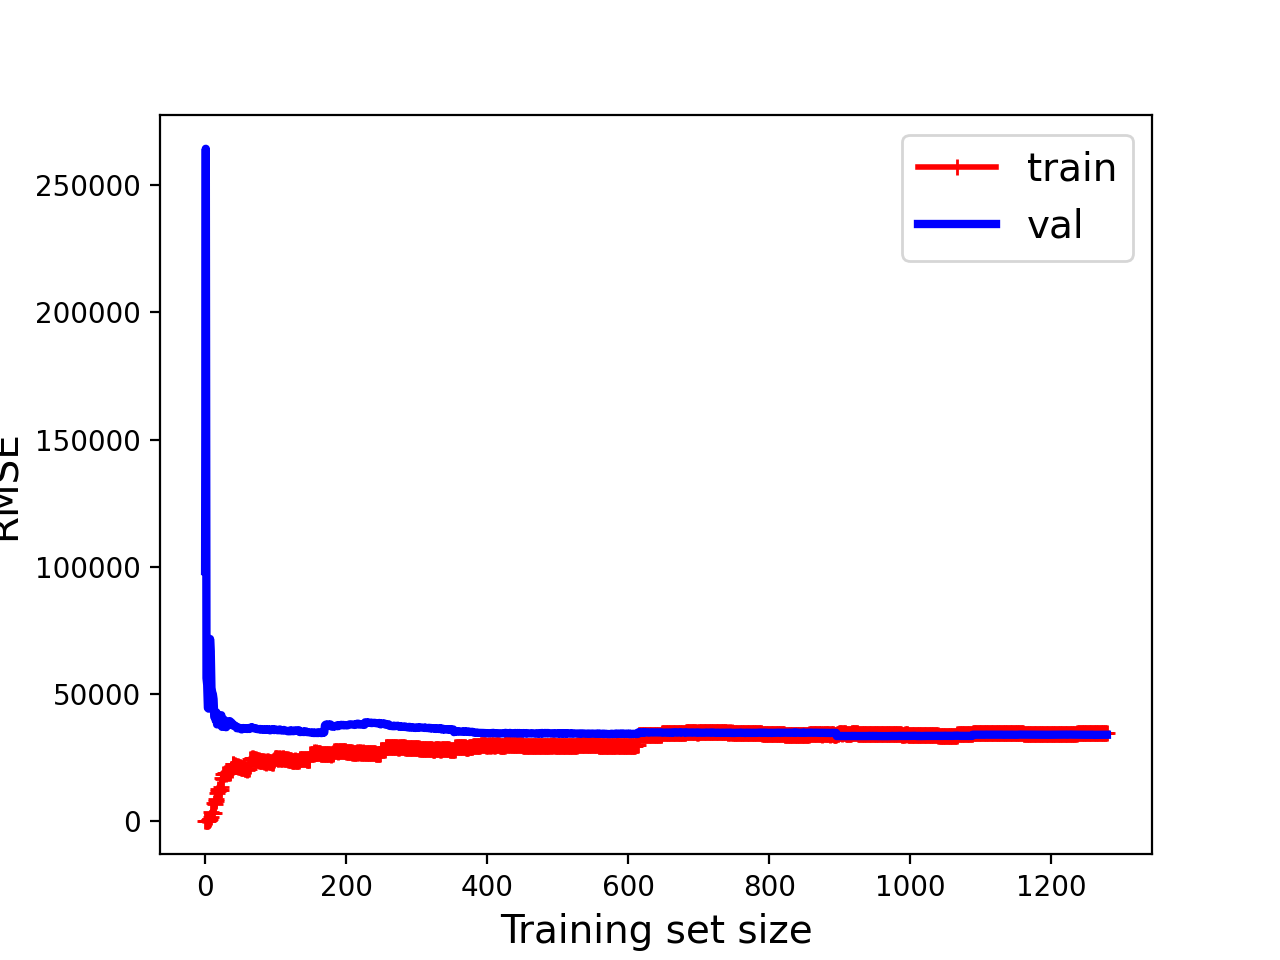
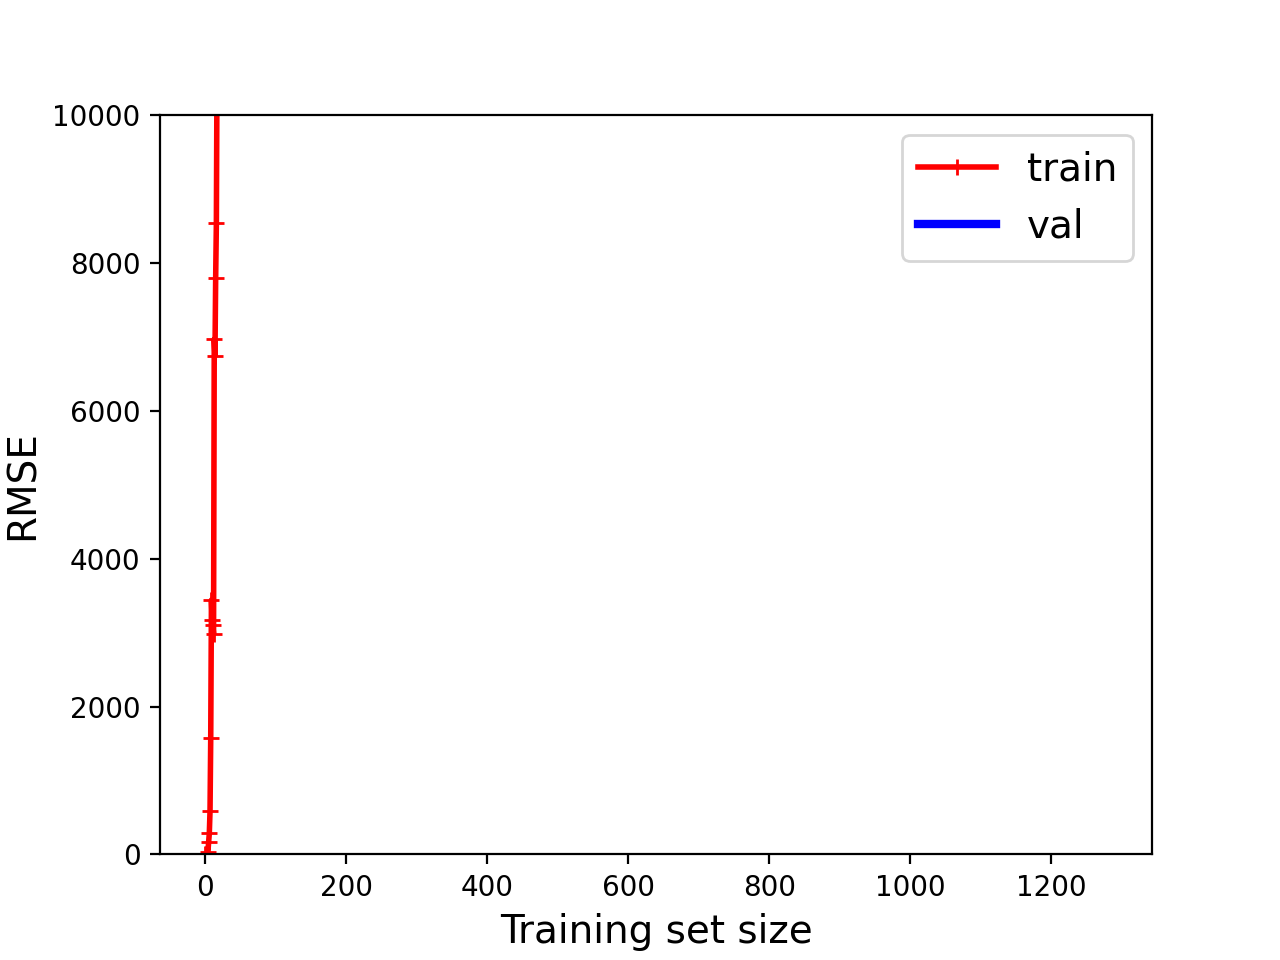
heatmap

diff --git a/src/Preprocessing.py b/src/Preprocessing.py
@@ -120,180 +120,10 @@ X_test["totalSF"] = X_test['Gr Liv Area'] + X_test['Total Bsmt SF']
 X_test["AllfloorSF"] = X_test["1st Flr SF"] + X_test["2nd Flr SF"]
 X_test["Qual+Cond"] = X_test["Overall Qual"] + X_test["Overall Cond"]
 
+
 X_train = X_train[more_columns]
 X_test = X_test[more_columns]
 
 X_train = X_train.fillna(0)
 X_test = X_test.fillna(0)
 
-
-print(X_train['Overall Qual'].unique())
-
-#orginal encoding
-ordinal_col_dicts = {
-'Utilities': {'AllPub': 1, 'NoSeWa': 3, 'NoSewr':2, 'ELO':4},
-'House Style': {'1Story': 1,  '2Story': 4, '1.5Fin': 2, 'SLvl': 8, 'SFoyer': 7, '1.5Unf': 3, '2.5Unf': 6, '2.5Fin': 5},
-'Garage Qual': {'TA': 3, 'Fa': 4, 'Gd': 2, 'Ex': 1, 'Po': 5},
-'Garage Cond': {'TA': 3, 'Fa': 4, 'Gd': 2, 'Po': 5, 'Ex': 1},
-'Pool QC' : {'Ex': 1, 'Gd': 2, 'TA': 3, 'Fa': 4, 'None': 5},
-'Fence' : {'GdPrv' : 1, 'MnPrv':	 2, 'GdWo': 3, 'MnWw': 4, 'None': 5},
-'Bedroom AbvGr':  {'3' : 3, '2': 2, '5': 5, '1': 1, '4': 4, '0': 0, '6':6 },
-'Overall Qual' : {'8':8, '10':10, '7': 7,'6':6, '5': 5,'2':2, '9': 9,'4': 4,'3':3 ,'1': 1}}
-
-
-def ordinal_encode(data, ordinal_col_dicts):
-    """
-    Ordinal encode the ordinal columns according to the values in
-    ordinal_col_dicts.
-    """
-    for ord_col in ordinal_col_dicts:
-        ord_dict = ordinal_col_dicts[ord_col]
-        data[ord_col] = data[ord_col].map(ord_dict)
-    return data
-
-X_train = ordinal_encode(X_train, ordinal_col_dicts) #numerical values assigned to feature class
-X_test = ordinal_encode(X_test, ordinal_col_dicts)
-
-#again filling NaN values. (don't understand the error here)
-X_train = X_train.fillna(0)
-X_test = X_test.fillna(0)
-
-#models
-reg_model = LinearRegression()
-ridge_model = Ridge()
-lasso_model = Lasso()
-elastic_model = ElasticNet()
-
-#Ridge Model
-cross_val_scores_ridge = [] #this stores average cross validation scores
-alpha_ridge = []
-for i in range(1,9):
-    ridgemodel = Ridge(alpha = i*0.25)
-    scores = cross_val_score(ridgemodel, X_train, y_train, cv=8)
-    average_cross_val_score = mean(scores)*100 # as a percentage
-    cross_val_scores_ridge.append(average_cross_val_score)
-    alpha_ridge.append(i*0.25)
-
-for i in range(0, len(alpha_ridge)):
-    print(str(alpha_ridge[i])+ " : " + str(cross_val_scores_ridge[i]))
-
-plt.figure()
-ax = plt.gca()
-ax.plot(alpha_ridge, scores)
-plt.xlabel('alpha_ridge')
-plt.ylabel('score')
-plt.title('Ridge Model')
-plt.savefig("graphs/RidgeModel_data2")
-
-#Ridge Regressor L1, using more hyperparameters
-ridge_params = {'alpha':[1e-15, 1e-10, 1e-8, 1e-4, 1e-2, 0.02, 0.024, 0.025, 0.026, 0.03, 1, 5, 10, 20,
-                         200, 230, 250, 265, 270, 275, 290, 300, 500 ],
-                "fit_intercept": [True, False],
-                "solver": ['svd', 'cholesky', 'lsqr', 'sparse_cg', 'sag', 'saga']}
-ridge_regressor = GridSearchCV(ridge_model, ridge_params, scoring = 'neg_mean_squared_error', cv=5 )
-ridge_regressor.fit(X_train, y_train)
-print(f"beste parameter Ridge: {ridge_regressor.best_params_}")
-print(f"best score Ridge: {ridge_regressor.best_score_}")
-
-#plot learning curves
-plot_learning_curves(Ridge( alpha = 5, fit_intercept = True, solver = 'svd'), X_train, y_train)
-
-#Lasso Regression
-cross_val_scores_lasso = []
-Lambda = []
-
-for i in range (1,9):
-    lassoModel = Lasso(i*0.25, tol = 0.0925)
-    lassoModel.fit(X_train, y_train)
-    scores = cross_val_score(lassoModel, X_train, y_train, cv=8)
-    average_cross_val_score = mean(scores)*100
-    cross_val_scores_lasso.append(average_cross_val_score)
-    Lambda.append(i*0.25)
-
-for i in range(0, len(Lambda)):
-    print(str(Lambda[i]) + ' : '+str(cross_val_scores_lasso[i]))
-
-#example Lasso
-#example_lasso = Lasso(alpha = 1)
-#example_lasso.fit(X_train, y_train)
-#print(example_lasso.score(X_test, y_test))
-
-plt.figure()
-ax = plt.gca()
-ax.plot(Lambda, scores)
-plt.xlabel('Lambda')
-plt.ylabel('score')
-plt.title('Lasso Model')
-plt.savefig("graphs/ Lamdas Lasso Model")
-
-# Lasso Regressor L2, looking are more hyperparameters
-lasso_params = {'alpha': [0.02, 0.024, 0.025, 0.026, 0.03, 0.25, 0.5, 0.75, 1.0, 1.25, 1.5, 1.75, 2.0, 5.0, 10, 20, 15, 12, 8, 25, 30, 200],
-                "fit_intercept": [True, False],
-                "copy_X": [True, False],
-                "selection": ['cyclic', 'random']
-                }
-lasso_regressor = GridSearchCV(lasso_model, lasso_params, scoring='neg_mean_squared_error', cv=5)
-lasso_regressor.fit(X_train, y_train)
-
-print(f"beste parameter Lasso:{lasso_regressor.best_params_}")
-print(f"best score Lasso:{lasso_regressor.best_score_}")
-
-#plot learning curve
-#plt.figure()
-#plot_learning_curves(Lasso(alpha = 25, copy_X = False, fit_intercept = True, selection = 'random'), X_train, y_Train)
-#plt.savefig("graphs/ lasso learning curve")
-
-# Elastic Net
-alpha=[]
-scoresArr=[]
-
-for i in range(1, 9):
-    ElasticNetModel = ElasticNet(alpha=i*0.25, l1_ratio=0.5)
-    cv = RepeatedKFold(n_splits=10, n_repeats=3, random_state=1)
-   # evaluate model
-    scores = cross_val_score(ElasticNetModel, X_train, y_train, scoring='neg_mean_absolute_error', cv=cv, n_jobs=-1)
-   # force scores to be positive
-    scores = absolute(scores) #to have the positive values
-    scoresArr.append(scores)
-    alpha.append(i*0.25)
-
-plt.figure()
-ax = plt.gca()
-ax.plot(alpha, scoresArr)
-plt.xlabel('alpha')
-plt.ylabel('score')
-plt.title('ElasticNet Model')
-plt.savefig("graphs/ElasticNet Model")
-
-
-#Gridsearch Elastic Net
-elastic_params = {
-    'alpha': [1e-15, 1e-10, 1e-8, 1e-4, 1e-2, 0.02, 0.024, 0.025, 0.026, 0.03, 1, 5, 10, 20, 200, 230, 250, 265,
-              270, 275, 290, 300, 500]}
-elastic_regressor = GridSearchCV(elastic_model, elastic_params, scoring='neg_mean_squared_error', cv=5)
-elastic_regressor.fit(X_train, y_train)
-print(f"beste parameter Elastic Net:  {elastic_regressor.best_params_}")
-print(f"best score Elastic Net: {elastic_regressor.best_score_}")
-
-#plot learning curve
-#plt.figure()
-#plot_learning_curves(ElasticNet(alpha = 0.01), X_train, y_Train)
-#plt.savefig("graphs/learningcurve elastic net")
-#chosen_model = ElasticNet(alpha = 0.01)
-
-
-#Elastic Net Model
-#chosen_model.fit(X_train, y_Train)
-#yFit_elastic = chosen_model.predict(X_train)
-#y_pred_elastic = chosen_model.predict(X_test)
-
-# Plot predictions chosen model
-#plt.figure()
-#plt.scatter(yFit_elastic, y_train, c = "blue", marker = "s", label = "Training data")
-#plt.scatter(y_pred_elastic, y_test, c = "lightgreen", marker = "s", label = "Validation data")
-#plt.title("Elastic Net regression")
-#plt.xlabel("Predicted values")
-#plt.ylabel("Real values")
-#plt.legend(loc = "upper left")
-#plt.plot([10.5, 13.5], [10.5, 13.5], c = "red")
-#lt.savefig("graphs/predictedvaluesElasticNet")

diff --git a/src/NewModelling.py b/src/NewModelling.py
@@ -217,6 +217,11 @@ plt.figure()
 scatter_matrix(all_data[attributes2], figsize=(12,8))
 plt.savefig("graphs/scatter_matrix_plot_data2")
 
+corr = all_data[attributes2].corr()
+plt.figure()
+sns.heatmap(corr)
+plt.savefig("graphs/heatmap")
+
 
 #There seems to be a linear relationship between totalSF and Saleprice.
 # It looks even better than the GR Liv Area against SalePrice.
@@ -263,7 +268,18 @@ print(f"best score Ridge: {ridge_regressor.best_score_}")
 #plot learning curve
 plt.figure()
 plot_learning_curves(Ridge( alpha = 200, fit_intercept = True, solver = 'cholesky'), X_train2, y_train2)
+plt.ylim(0, 60000)
 plt.savefig("graphs/learningcurve_ridge_data2")
+
+#Ridge model for comparison
+chosen_ridge = Ridge( alpha = 200, fit_intercept = True, solver = 'cholesky')
+chosen_ridge.fit(X_train2, y_train2)
+yFit_ridge = chosen_ridge.predict(X_train2)
+y_pred_ridge = chosen_ridge.predict(X_test2)
+
+r2_ridge = r2_score(y_test2, y_pred_ridge)
+mae_ridge = mean_absolute_error(y_test2 , y_pred_ridge)
+mse_ridge = mean_squared_error(y_test2, y_pred_ridge)
 
 #Lasso Regression
 cross_val_scores_lasso = []
@@ -272,7 +288,7 @@ Lambda = []
 for i in range (1,9):
     lassoModel = Lasso(i*0.25, tol = 0.0925)
     lassoModel.fit(X_train2, y_train2)
-    scores = cross_val_score(lassoModel, X_train2, y_train2, cv=8, scoring = 'accuracy')
+    scores = cross_val_score(lassoModel, X_train2, y_train2, cv=8)
     average_cross_val_score = mean(scores)*100
     cross_val_scores_lasso.append(average_cross_val_score)
     Lambda.append(i*0.25)
@@ -285,8 +301,8 @@ ax = plt.gca()
 ax.plot(Lambda, scores)
 plt.xlabel('Lambda')
 plt.ylabel('score')
-plt.title('Lasso Model_data2_accuracy')
-plt.savefig("graphs/ Lamdas_Lasso_Model_data2_accuracy")
+plt.title('Lasso Model_data2')
+plt.savefig("graphs/ Lamdas_Lasso_Model_data2")
 
 #example Lasso
 example_lasso = Lasso(alpha = 1.25)
@@ -310,10 +326,24 @@ lasso_regressor.fit(X_train2, y_train2)
 print(f"best parameter Lasso:{lasso_regressor.best_params_}")
 print(f"best score Lasso:{lasso_regressor.best_score_}")
 
+
 #plot learning curve
 plt.figure()
 plot_learning_curves(Lasso(alpha = 200, copy_X = True, fit_intercept = True, selection = 'random'), X_train2, y_train2)
+plt.ylim(0, 10000)
 plt.savefig("graphs/ lasso learning curve_data2")
+
+#Lasso Model for comparison
+chosen_lasso = Lasso(alpha = 200, copy_X = True, fit_intercept = True, selection = 'random')
+chosen_lasso.fit(X_train2, y_train2)
+yFit_lasso = chosen_lasso.predict(X_train2)
+y_pred_lasso = chosen_lasso.predict(X_test2)
+
+r2_lasso = r2_score(y_test2, y_pred_lasso)
+mae_lasso = mean_absolute_error(y_test2 , y_pred_lasso)
+mse_lasso = mean_squared_error(y_test2, y_pred_lasso)
+
+
 
 # Elastic Net
 alpha=[]
@@ -350,17 +380,18 @@ print(f"best score Elastic Net: {elastic_regressor.best_score_}")
 #plot learning curve
 plt.figure()
 plot_learning_curves(ElasticNet(alpha = 0.03), X_train2, y_train2)
+plt.ylim(0,60000)
 plt.savefig("graphs/learningcurve elasticnet_data2")
 
-chosen_model = ElasticNet(alpha = 0.03)
+el_model = ElasticNet(alpha = 0.03)
 
 #Elastic Net Model
-chosen_model.fit(X_train2, y_train2)
+el_model.fit(X_train2, y_train2)
 
-yFit_elastic = chosen_model.predict(X_train2)
-y_pred_elastic = chosen_model.predict(X_test2)
+yFit_elastic = el_model.predict(X_train2)
+y_pred_elastic = el_model.predict(X_test2)
 
-# Plot predictions chosen model
+# Plot predictions elastic model
 plt.figure()
 plt.scatter(yFit_elastic, y_train2, c = "blue", marker = "s", label = "Training data")
 plt.scatter(y_pred_elastic, y_test2, c = "lightgreen", marker = "s", label = "Validation data")
@@ -374,14 +405,43 @@ plt.savefig("graphs/predictedvaluesElasticNet_data2")
 
 
 #Elastic Net Model
-chosen_model.fit(X_train2, y_train2)
-yFit_elastic = chosen_model.predict(X_train2)
-y_pred_elastic = chosen_model.predict(X_test2)
+el_model.fit(X_train2, y_train2)
+yFit_elastic = el_model.predict(X_train2)
+y_pred_elastic = el_model.predict(X_test2)
 
 r2 = r2_score(y_test2, y_pred_elastic)
 mae = mean_absolute_error(y_test2 , y_pred_elastic)
 mse = mean_squared_error(y_test2, y_pred_elastic)
 
-print(f"r2: {r2}")
-print(f"mae: {mae}")
-print(f"mse: {mse}")
+#comparing models on test data
+print(f"r2 score best elastic net: {r2}")
+print(f"mae score best elastic net: {mae}")
+print(f"mse score best elastic net: {mse}")
+
+print(f"r2 score best Lasso: {r2_lasso}")
+print(f"mae score best Lasso: {mae_lasso}")
+print(f"mse score best Lasso: {mse_lasso}")
+
+print(f"r2 score best Ridge: {r2_ridge}")
+print(f"mae score best Ridge: {mae_ridge}")
+print(f"mse score best Ridge: {mse_ridge}")
+
+
+chosen_model = Lasso(alpha = 30, copy_X = False, fit_intercept = True, selection = 'random')
+
+#Plotting final chosen model
+chosen_model.fit(X_train2, y_train2)
+yFit = chosen_model.predict(X_train2)
+y_pred = chosen_model.predict(X_test2)
+
+# Plot predictions elastic model
+plt.figure()
+plt.scatter(yFit, y_train2, c = "blue", marker = "s", label = "Training data")
+plt.scatter(y_pred, y_test2, c = "lightgreen", marker = "s", label = "Validation data")
+plt.title("Chosen model regression")
+plt.xlabel("Predicted values")
+plt.ylabel("Real values")
+plt.legend(loc = "upper left")
+plt.plot([10.5, 13.5], [10.5, 13.5], c = "red")
+plt.savefig("graphs/predictedvalues_chosenmodel")
+

diff --git a/src/modelling.py b/src/modelling.py
@@ -205,13 +205,13 @@ print(f"best score Elastic Net: {elastic_regressor.best_score_}")
 plt.figure()
 plot_learning_curves(ElasticNet(alpha = 0.01), X_train, y_Train)
 plt.savefig("graphs/learningcurve elastic net")
-chosen_model = ElasticNet(alpha = 0.01)
+el_model = ElasticNet(alpha = 0.01)
 
 
 #Elastic Net Model
-chosen_model.fit(X_train, y_Train)
-yFit_elastic = chosen_model.predict(X_train)
-y_pred_elastic = chosen_model.predict(X_test)
+el_model.fit(X_train, y_Train)
+yFit_elastic = el_model.predict(X_train)
+y_pred_elastic = el_model.predict(X_test)
 
 r2 = r2_score(y_test, y_pred_elastic)
 mae = mean_absolute_error(y_test , y_pred_elastic)
